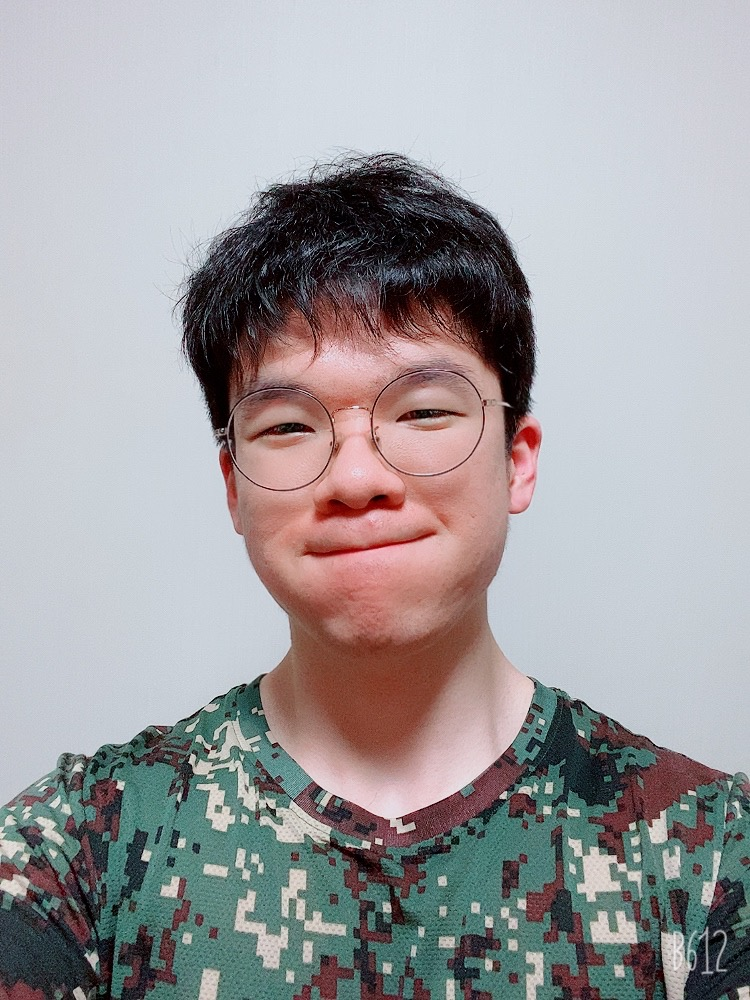
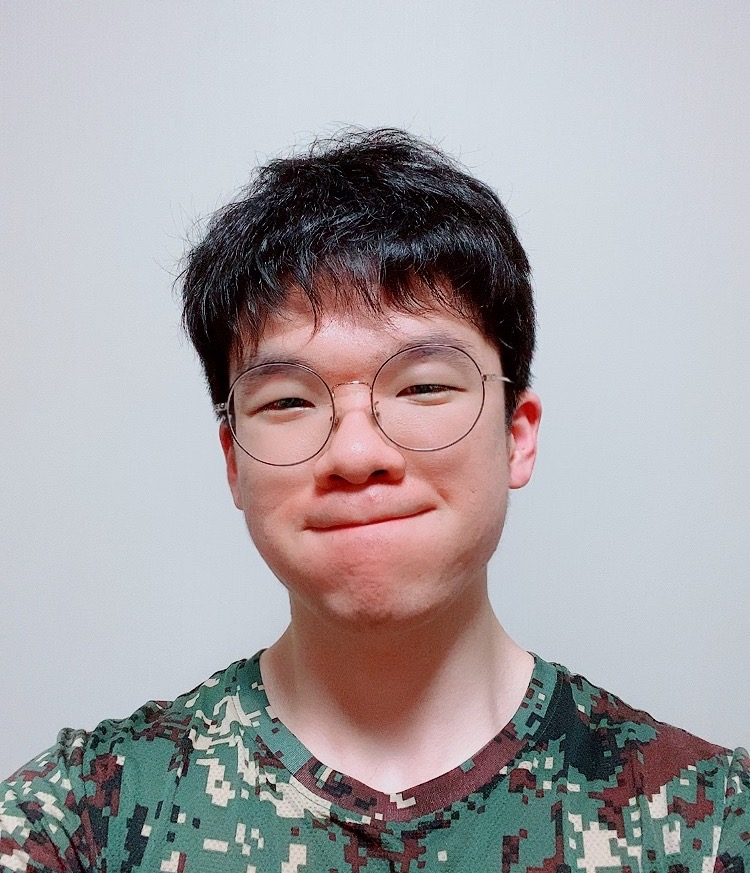
complete about page draft

diff --git a/layouts/index.html b/layouts/index.html
@@ -8,15 +8,19 @@
 <div class="splash-container">
     <div class="splash">
 
-        
+        <div class="profile-box">
+            <img class="profile" src="/images/profile.jpg" alt="Gang">
+        </div>
 
-        <h1>{{ .Params.heading }}<span class="fancy">.</span></h1>
-        {{ if isset .Params "handle" }}
-        <span class="handle">@{{ .Params.handle }}</span>
-        {{ end }}
-        <h2>
-        {{ .Params.subheading }}
-        </h2>
+        <div class="codex-intro">
+            <h1>{{ .Params.heading }}<span class="fancy">.</span></h1>
+            {{ if isset .Params "handle" }}
+            <span class="handle">@{{ .Params.handle }}</span>
+            {{ end }}
+            <h2>
+            {{ .Params.subheading }}
+            </h2>
+        </div>
         
         <!-- 여기 아래에다가 포트폴리오 작성하면 됨 -->
         
@@ -29,7 +33,7 @@
             기술 외적으로는 "Put yourself in one's shoes!", "역지사지(易地思之)"의 마음가짐으로 사람을 이해하는데 관심이 많습니다.
             여러 사람의 마음을 충분히 헤아리면서 주어진 환경을 가꾸어 나갈 때 일어나는 선순환의 흐름이 세상을 바꿀 수 있다고 믿습니다.<br>
             <br>
-            제가 어떤 사람인지 더 궁금하다면 아래의 이력서를 확인해주시기 바랍니다. 감사합니다. ☺ <br>
+            제가 어떤 사람인지 더 궁금하다면 아래의 이력서를 확인해주시기 바랍니다. 감사합니다. 😊 <br>
 
             <ul>
                 <li><a href="">CV</a>(국문)</li>

diff --git a/assets/scss/pages/about.scss b/assets/scss/pages/about.scss
@@ -1,0 +1,73 @@
+@import '../main';
+
+.splash-container {
+  height: 100%;
+  display: flex;
+  justify-content: center;
+  align-items: center;
+  font-size: 14px;
+
+  @media screen and (min-width: $medium) {
+    font-size: 18px;
+  }
+}
+
+.splash {
+  h1 {
+    font-size: 3em;
+    line-height: 1;
+    letter-spacing: -0.03em;
+    margin: 0;
+  }
+
+  h2 {
+    font-size: 2.25em;
+    font-weight: 500;
+    line-height: 1.25;
+    max-width: 22em;
+    letter-spacing: -0.03em;
+  }
+}
+
+.fancy {
+  color: $primary;
+}
+
+.handle {
+  display: inline-block;
+  margin-top: 0.275em;
+  color: $grey;
+  letter-spacing: 0.5px;
+}
+
+.writing {
+  text-decoration: none;
+  color: $primary;
+}
+
+/* overrides */
+
+// about 페이지에서 모바일 화면으로 줄일 경우 나타나는 nav bar 때문에 사진이 짤리는 것을 방지하기 위해
+// <main> 태그에 대해 about 페이지에서만 오버라이딩 하던 것을 버리고, post.html에서 잘 적용되는 nav bar 고려한 값을 가져옴
+main {
+    padding: 3rem 1.5rem 1rem;
+  
+    @media screen and (min-width: $medium) {
+      padding-left: calc(1.5rem + #{$navWidth});
+    }
+  
+    @media screen and (max-width: $medium - 1) {
+      padding-top: calc(3rem + #{$burgerContainerHeight});
+    }
+}
+
+// main {
+//   padding-top: 0;
+//   padding-bottom: 0;
+//   height: 100%;
+// }
+
+.social-icons {
+  justify-content: flex-start;
+  padding-top: 2rem;
+}

diff --git a/assets/scss/custom.scss b/assets/scss/custom.scss
@@ -1,6 +1,25 @@
+// index.html
+.profile-box {
+    width: 200px;
+    height: 200px; 
+    border-radius: 70%;
+    overflow: hidden;
+    margin: auto;
+    
+
+    .profile {
+        width: 100%;
+        height: 100%;
+        object-fit: cover;
+    }
+}
+
+.codex-intro{
+    padding: 1.5em 0;
+}
+
 .portfolio {
     max-width: 700px;
-    padding-top: 2em;
 
     a { text-decoration: none; color: #0000EE; }
     a:visited { text-decoration: none; }
@@ -9,6 +28,9 @@
     a:hover, a:active { text-decoration: none; }
 }
 
+
+
+// _default/single.html
 .utterances{
     // <div class="utterances"></div> 는 utterances를 통해 추가한 댓글 박스이다.
     // utterances 댓글 기능은 코드상에는 ROOT/layouts/_default/single.html에 <script> 태그로 존재하고 있다.
